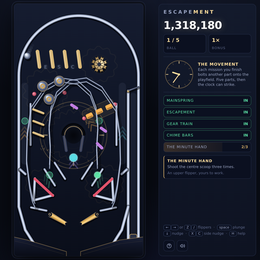
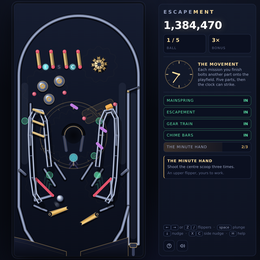
Fix the kickback, unbury the ball, and clear up the playfield
All four of these came from playing it, and all four were real.

The kickback never worked. It teleported the ball to a fixed point that was
inside the outer wall, depenetration shoved it sideways into the inlane rail,
and it rebounded straight into the drain. Underneath that was a worse problem:
the inlane rail roofed the entire outlane, so nothing fired from the bottom of
that lane could get out at all — a probe rising vertically from the outlane
found no clear column anywhere across it. The rail now stops short of the
outlane, the deflector at the foot of each orbit became a one-way wire gate
(solid to a falling ball, open to a rising one, which is what the real part
is), and the coil aims up the orbit lane. It now fires 80/80 and saves 80/80,
sending the ball round the top and back into play through the spinner.

The ball hid behind the plunger because the plunger was drawn after it, and
the apron was drawn straight across the shooter lane. The rod is now drawn
first and sits below the ball, and the apron stops at the lane divider.

The two rails were drawn by offsetting each wire by a constant amount in y, so
they collapsed into a single line on the vertical runs and split apart on the
horizontal ones. That is the "broken" look. The offset is now perpendicular to
the path, with cross-ties, support posts and a shadow, so it reads as a raised
wireform.

For the clutter: the habitrails were two table-spanning ovals crossing
[…]

diff --git a/games/escapement.html b/games/escapement.html
@@ -460,23 +460,23 @@ function build() {
   push(seg(8.5, 186, 15.5, 197, WALL));  push(mseg(8.5, 186, 15.5, 197, WALL));
 
   /* -------------------------------------------------------- slingshots */
-  push(seg(16, 146, 30, 159, Object.assign({ id: 'slingL' }, SLING)));
-  push(seg(30, 159, 15, 163, BACK));
-  push(seg(15, 163, 16, 146, BACK));
-  push(mseg(16, 146, 30, 159, Object.assign({ id: 'slingR' }, SLING)));
-  push(mseg(30, 159, 15, 163, BACK));
-  push(mseg(15, 163, 16, 146, BACK));
+  push(seg(17, 146, 30, 159, Object.assign({ id: 'slingL' }, SLING)));
+  push(seg(30, 159, 16, 163, BACK));
+  push(seg(16, 163, 17, 146, BACK));
+  push(mseg(17, 146, 30, 159, Object.assign({ id: 'slingR' }, SLING)));
+  push(mseg(30, 159, 16, 163, BACK));
+  push(mseg(16, 163, 17, 146, BACK));
 
   // Deflector at the foot of each orbit lane.  A ball still travelling fast
   // skips across the outlane mouth onto the sling; a dribbler drops in.
-  const DEF = { r: 1.0, e: 0.48, mu: 0.05, style: 'rail' };
+  const DEF = { r: 1.0, e: 0.48, mu: 0.05, style: 'gate', oneWay: 1 };
   push(seg(4.6, 139, 8.6, 142.6, Object.assign({ id: 'defL' }, DEF)));
   push(mseg(4.6, 139, 8.6, 142.6, Object.assign({ id: 'defR' }, DEF)));
 
   /* --------------------------------------------------------- inlane rails */
   // the ball rolls down the top of these straight onto the flipper's base
-  push(seg(13, 168.5, 20, 170, RAIL));   push(seg(20, 170, 25, 171, RAIL));
-  push(mseg(13, 168.5, 20, 170, RAIL));  push(mseg(20, 170, 25, 171, RAIL));
+  push(seg(15.5, 167, 20, 169, RAIL));   push(seg(20, 169, 25, 171, RAIL));
+  push(mseg(15.5, 167, 20, 169, RAIL));  push(mseg(20, 169, 25, 171, RAIL));
 
   /* ------------------------------------------------------------ flippers */
   const flippers = [
@@ -546,10 +546,12 @@ function build() {
   chute('rampR', [MX - 27.4, 136.3], [24.5 / DL, -38 / DL], 15, false);
 
   /* -------------------------------------------------------------- rails */
-  const LPTS = [[27.4, 136.3], [28, 122], [27, 106], [28.5, 92], [33, 80], [43, 71], [56, 69],
-                [68, 76], [79, 92], [82, 112], [82.5, 133], [80, 152], [78, 162], [76, 166.5]];
-  const railL = { id: 'railL', pts: LPTS, exitV: 88, climb: 2.05 };
-  const railR = { id: 'railR', on: false, exitV: 88, climb: 2.05,
+  // Each habitrail is a compact hairpin that stays on its own side of the
+  // table: up the inside, over the top, down the outside, into the inlane.
+  const LPTS = [[27.4, 136.3], [26, 124], [25, 112], [24, 101], [21, 94], [16, 93],
+                [12.8, 99], [12.4, 112], [13, 128], [14, 145], [16, 158], [20, 164]];
+  const railL = { id: 'railL', pts: LPTS, exitV: 84, climb: 2.6 };
+  const railR = { id: 'railR', on: false, exitV: 84, climb: 2.6,
                   pts: LPTS.map((p) => [MX - p[0], p[1]]) };
 
   /* ------------------------------------------------------------- chimes */
@@ -563,7 +565,7 @@ function build() {
   const wheel = { x: 66, y: 57, r: 6.8, teeth: 8, toothLen: 3.6, toothR: 1.1, ang: 0, av: 2.6, on: false, id: 'wheel' };
 
   /* ------------------------------------------------------------ triggers */
-  tr.push({ kind: 'kickback', x: 8.5, y: 182, r: 4.6, id: 'kickback', on: false });
+  tr.push({ kind: 'kickback', x: 11, y: 180, r: 5.2, aim: [7, 108], id: 'kickback', on: false });
   tr.push({ kind: 'orbit', id: 'orbitL', x: 7.6, y: 80, r: 4.6 });
   tr.push({ kind: 'orbit', id: 'orbitR', x: MX - 7.6, y: 80, r: 4.6 });
   tr.push({ kind: 'inlane', id: 'inlaneL', x: 18, y: 166, r: 4 });
@@ -1277,9 +1279,11 @@ function enterTrigger(g, b, t) {
     case 'kickback':
       if (g.kickbackArmed) {
         g.kickbackArmed = false;
-        b.vx = 26; b.vy = -430;
-        b.y = 184;
-        ev(w, 'kickback', {});
+        // aim the coil at a point above the mouth so the ball threads it
+        const tx = (t.aim ? t.aim[0] : t.x) - b.x, ty = (t.aim ? t.aim[1] : t.y - 40) - b.y;
+        const L = Math.hypot(tx, ty) || 1;
+        b.vx = tx / L * 720; b.vy = ty / L * 720;   // hard enough to make the orbit
+        ev(w, 'kickback', { x: b.x, y: b.y });
         say(g, 'KICKBACK', 'good');
       }
       break;
@@ -1477,13 +1481,13 @@ function strokePath(g, pts, w, col) {
 }
 function drawPath(g, p) {
   const w = Math.max(0.8, p.r * 2);
-  strokePath(g, p.pts, w + 1.6, 'rgba(0,0,0,.55)');
-  g.save(); g.translate(0, -0.35);
-  strokePath(g, p.pts, w, p.style === 'rail' ? '#7c88a6' : '#8e9bb8');
-  strokePath(g, p.pts, w * 0.42, p.style === 'rail' ? '#c2cde4' : '#d3dcf0');
+  strokePath(g, p.pts, w + 1.6, 'rgba(0,0,0,.6)');
+  g.save(); g.translate(0, -0.3);
+  strokePath(g, p.pts, w, p.style === 'rail' ? '#525c78' : '#5f6a88');
+  strokePath(g, p.pts, w * 0.40, p.style === 'rail' ? '#8f9ab8' : '#9aa6c4');
   g.restore();
-  g.save(); g.globalAlpha = 0.5;
-  strokePath(g, p.pts, w * 0.2, '#ffffff');
+  g.save(); g.globalAlpha = 0.30;
+  strokePath(g, p.pts, w * 0.18, '#dfe6f7');
   g.restore();
 }
 
@@ -1499,12 +1503,12 @@ function paintStatic(g, world, game) {
 
   /* engraved clockwork: big faint gears under everything */
   g.save();
-  g.globalAlpha = 0.5;
+  g.globalAlpha = 0.30;
   const plates = [[24, 78, 15, 14], [66, 57, 12, 11], [46, 112, 17, 18], [70, 150, 13, 12], [20, 150, 10, 9]];
   for (const [x, y, R, n] of plates) {
-    g.strokeStyle = 'rgba(201,164,99,.13)'; g.lineWidth = 0.7;
+    g.strokeStyle = 'rgba(201,164,99,.10)'; g.lineWidth = 0.6;
     gear(g, x, y, R, n, x * 0.3, R * 0.36); g.stroke();
-    g.strokeStyle = 'rgba(201,164,99,.07)'; g.lineWidth = 0.4;
+    g.strokeStyle = 'rgba(201,164,99,.05)'; g.lineWidth = 0.35;
     g.beginPath(); g.arc(x, y, R * 0.62, 0, Math.PI * 2); g.stroke();
   }
   g.restore();
@@ -1537,12 +1541,9 @@ function paintStatic(g, world, game) {
   g.restore();
 
   /* shot inserts: the arrows a real playfield paints in front of a shot */
-  insert(g, 27.4, 148, -122, COL.green);      // left ramp
-  insert(g, 64.6, 148, -58, COL.green);       // right ramp
-  insert(g, 8, 112, -90, COL.amber);          // left orbit / spinner
-  insert(g, 84, 112, -90, COL.cyan);          // right orbit
+  insert(g, 27.4, 150, -122, COL.green);      // left ramp
+  insert(g, 64.6, 150, -58, COL.green);       // right ramp
   insert(g, 46, 134, -90, COL.violet);        // the scoop
-  insert(g, 60, 104, -125, COL.amber);        // the bank
 
   /* brass backplate behind the drop targets */
   g.save();
@@ -1562,7 +1563,10 @@ function paintStatic(g, world, game) {
 }
 
 function ghosts(g, world, game) {
-  const p = game ? game.parts : {};
+  // only the part you are working on next, or the table turns into a blueprint
+  const next = game ? PART_ORDER.find((id) => !game.parts[id]) : null;
+  const p = {};
+  for (const id of PART_ORDER) p[id] = !game || game.parts[id] || id !== next;
   g.save();
   g.setLineDash([1.6, 1.6]);
   g.strokeStyle = 'rgba(201,164,99,.22)';
@@ -1621,7 +1625,7 @@ function insert(g, x, y, deg, col) {
     g.beginPath();
     const o = i * 3.1;
     g.moveTo(o - 3.6, -3.1); g.lineTo(o + 0.2, 0); g.lineTo(o - 3.6, 3.1);
-    g.lineWidth = 1.0; g.strokeStyle = col; g.globalAlpha = 0.30 - i * 0.07;
+    g.lineWidth = 1.0; g.strokeStyle = col; g.globalAlpha = 0.22 - i * 0.05;
     g.stroke();
   }
   g.restore();
@@ -1647,7 +1651,7 @@ function drawApron(g) {
   const wing = (l) => {
     g.beginPath();
     if (l) { g.moveTo(-1, 209); g.lineTo(-1, 191); g.lineTo(10, 193.5); g.lineTo(40.5, 202.5); g.lineTo(40.5, 209); }
-    else { g.moveTo(101, 209); g.lineTo(101, 191); g.lineTo(82, 193.5); g.lineTo(51.5, 202.5); g.lineTo(51.5, 209); }
+    else { g.moveTo(88.5, 209); g.lineTo(88.5, 191.5); g.lineTo(82, 193.5); g.lineTo(51.5, 202.5); g.lineTo(51.5, 209); }
     g.closePath();
     const grd = g.createLinearGradient(0, 191, 0, 207);
     grd.addColorStop(0, '#1c2237'); grd.addColorStop(0.3, '#12172a'); grd.addColorStop(1, '#080b14');
@@ -1656,7 +1660,7 @@ function drawApron(g) {
     g.save(); g.globalAlpha = 0.5; g.strokeStyle = 'rgba(201,164,99,.35)'; g.lineWidth = 0.22;
     g.beginPath();
     if (l) { g.moveTo(0.6, 194.4); g.lineTo(10, 196.4); g.lineTo(38.6, 204.6); }
-    else { g.moveTo(99.4, 194.4); g.lineTo(82, 196.4); g.lineTo(53.4, 204.6); }
+    else { g.moveTo(87.9, 194.7); g.lineTo(82, 196.4); g.lineTo(53.4, 204.6); }
     g.stroke(); g.restore();
   };
   wing(true); wing(false);
@@ -1718,10 +1722,18 @@ function paintOne(g, c, world, game) {
   }
   if (s === 'post') {
     g.lineCap = 'round';
-    g.strokeStyle = '#d9b877'; g.lineWidth = w;
+    g.strokeStyle = 'rgba(0,0,0,.45)'; g.lineWidth = w + 1;
+    g.beginPath(); g.moveTo(c.ax, c.ay + 0.6); g.lineTo(c.bx, c.by + 0.6); g.stroke();
+    g.strokeStyle = '#8a7448'; g.lineWidth = w;
     g.beginPath(); g.moveTo(c.ax, c.ay); g.lineTo(c.bx, c.by); g.stroke();
-    g.strokeStyle = 'rgba(255,255,255,.22)'; g.lineWidth = w * 0.3;
-    g.beginPath(); g.moveTo(c.ax - w * .22, c.ay); g.lineTo(c.bx - w * .22, c.by); g.stroke();
+    g.strokeStyle = '#d9b877'; g.lineWidth = w * 0.5;
+    g.beginPath(); g.moveTo(c.ax - w * .18, c.ay); g.lineTo(c.bx - w * .18, c.by); g.stroke();
+    for (const [px, py] of [[c.ax, c.ay], [c.bx, c.by]]) {
+      g.fillStyle = '#e2536b';
+      g.beginPath(); g.arc(px, py, w * 0.52, 0, Math.PI * 2); g.fill();
+      g.fillStyle = 'rgba(255,255,255,.25)';
+      g.beginPath(); g.arc(px - w * .12, py - w * .12, w * 0.22, 0, Math.PI * 2); g.fill();
+    }
     return;
   }
   if (s === 'drop') {
@@ -1772,16 +1784,23 @@ function paintOne(g, c, world, game) {
 }
 
 
+const PART_ORDER = ['mainspring', 'escapement', 'geartrain', 'chimes', 'hands'];
+
 /* -------------------------------------------------------------- the lamps */
 // Every mission has an insert on the playfield.  Lit means "this is the shot".
 function lamps(game) {
-  const p = game.parts, pr = game.progress;
+  const p = game.parts;
+  // only the mission you are on is lit, so the eye has one place to go
+  const next = PART_ORDER.find((id) => !p[id]);
+  const lit = (id) => id === next;
   return [
-    { x: 8.2, y: 101, r: 2.5, col: COL.amber,  on: !p.mainspring, done: p.mainspring, lbl: 'WIND' },
-    { x: 66, y: 101, r: 2.5, col: COL.cyan,    on: !p.escapement, done: p.escapement, lbl: 'DROPS' },
-    { x: 27.4, y: 143, r: 2.5, col: COL.green, on: !p.geartrain,  done: p.geartrain,  lbl: 'RAMP' },
-    { x: 64.6, y: 143, r: 2.5, col: COL.green, on: p.geartrain,   done: false,        lbl: 'RAMP' },
-    { x: 46, y: 129.5, r: 3.1, col: game.partOrder.length >= 5 ? COL.violet : COL.cyan, on: !p.hands || game.partOrder.length >= 5, done: p.hands && game.partOrder.length < 5, lbl: 'SCOOP' }
+    { x: 8.2, y: 101, r: 2.5, col: COL.amber,  on: lit('mainspring'), done: p.mainspring },
+    { x: 66, y: 101, r: 2.5, col: COL.cyan,    on: lit('escapement'), done: p.escapement },
+    { x: 27.4, y: 143, r: 2.5, col: COL.green, on: lit('geartrain'),  done: p.geartrain },
+    { x: 64.6, y: 143, r: 2.5, col: COL.green, on: p.geartrain,       done: false },
+    { x: 46, y: 129.5, r: 3.1, col: game.partOrder.length >= 5 ? COL.violet : COL.cyan,
+      on: lit('hands') || game.partOrder.length >= 5, done: p.hands && game.partOrder.length < 5 },
+    { x: 62, y: 128, r: 2.4, col: COL.violet, on: lit('chimes'), done: p.chimes }
   ];
 }
 function drawLamp(g, l, t) {
@@ -1885,24 +1904,57 @@ function drawWheel(g, wh, t) {
   g.restore();
 }
 
-// habitrails: drawn as raised wireforms with a shadow on the playfield
+// Habitrails: two wires held apart by cross-ties, standing on posts, with a
+// shadow on the playfield below.  The offset has to be perpendicular to the
+// path or the two wires collapse into one on the vertical runs.
+function railGeom(r) {
+  if (r._geom) return r._geom;
+  const pts = r.pts, L = [], R = [];
+  for (let i = 0; i < pts.length; i++) {
+    const a = pts[Math.max(0, i - 1)], b = pts[Math.min(pts.length - 1, i + 1)];
+    let dx = b[0] - a[0], dy = b[1] - a[1];
+    const d = Math.hypot(dx, dy) || 1;
+    const nx = -dy / d * 1.45, ny = dx / d * 1.45;
+    L.push([pts[i][0] + nx, pts[i][1] + ny]);
+    R.push([pts[i][0] - nx, pts[i][1] - ny]);
+  }
+  r._geom = { L, R };
+  return r._geom;
+}
+function polyline(g, pts, dx, dy) {
+  g.beginPath();
+  g.moveTo(pts[0][0] + dx, pts[0][1] + dy);
+  for (let i = 1; i < pts.length; i++) g.lineTo(pts[i][0] + dx, pts[i][1] + dy);
+}
 function drawRail(g, r, on) {
+  const { L, R } = railGeom(r);
   const pts = r.pts;
   g.save();
   g.lineJoin = 'round'; g.lineCap = 'round';
-  g.globalAlpha = on ? 1 : 0.16;
-  const line = (dx, dy, w, col) => {
-    g.strokeStyle = col; g.lineWidth = w;
-    g.beginPath(); g.moveTo(pts[0][0] + dx, pts[0][1] + dy);
-    for (let i = 1; i < pts.length; i++) g.lineTo(pts[i][0] + dx, pts[i][1] + dy);
+  g.globalAlpha = on ? 1 : 0.18;
+
+  // shadow of the whole form, cast down-right onto the playfield
+  g.strokeStyle = 'rgba(0,0,0,.34)'; g.lineWidth = 4.4;
+  polyline(g, pts, 2.0, 3.2); g.stroke();
+
+  // support posts every few points
+  g.strokeStyle = 'rgba(120,132,162,.55)'; g.lineWidth = 0.9;
+  for (let i = 1; i < pts.length - 1; i += 2) {
+    g.beginPath();
+    g.moveTo(pts[i][0], pts[i][1]);
+    g.lineTo(pts[i][0] + 1.5, pts[i][1] + 2.6);
     g.stroke();
-  };
-  line(1.5, 2.4, 3.0, 'rgba(0,0,0,.30)');            // shadow on the playfield
-  line(0, -1.5, 0.85, 'rgba(150,164,196,.75)');      // the two wires of the form
-  line(0, 1.5, 0.85, 'rgba(150,164,196,.75)');
-  g.globalAlpha *= 0.5;
-  line(0, -1.5, 0.3, '#e6ecfa');
-  line(0, 1.5, 0.3, '#e6ecfa');
+  }
+  // cross-ties
+  g.strokeStyle = 'rgba(150,163,196,.7)'; g.lineWidth = 0.55;
+  for (let i = 0; i < pts.length; i++) {
+    g.beginPath(); g.moveTo(L[i][0], L[i][1]); g.lineTo(R[i][0], R[i][1]); g.stroke();
+  }
+  // the two wires
+  for (const side of [L, R]) {
+    g.strokeStyle = '#5d6884'; g.lineWidth = 1.25; polyline(g, side, 0, 0); g.stroke();
+    g.strokeStyle = '#cbd5ea'; g.lineWidth = 0.6; polyline(g, side, 0, -0.2); g.stroke();
+  }
   g.restore();
 }
 
@@ -2104,7 +2156,10 @@ function spark(x, y, n, col, spd) {
     parts.push({ x, y, vx: Math.cos(a) * v, vy: Math.sin(a) * v - 12, life: 0.32 + Math.random() * 0.4, t: 0, col });
   }
 }
-function pop(x, y, text, col) { pops.push({ x, y, text, col, t: 0, life: 1.05 }); }
+function pop(x, y, text, col) {
+  // keep score pops inside the cabinet
+  pops.push({ x: Math.max(15, Math.min(85, x)), y, text, col, t: 0, life: 1.05 });
+}
 
 /* ------------------------------------------------------------------ events */
 function consume() {
@@ -2195,6 +2250,23 @@ function draw(dt) {
   R.drawWheel(g, w.wheel, w.t);
   for (const f of w.flippers) if (f.on) R.drawFlipper(g, f, w.t);
 
+  /* plunger */
+  const plunging = game.state === 'plunge';
+  const pw = 5.6, px = 92.5;
+  const pull = plunging ? game.plunger : 0;
+  // the shooter rod sits below the ball and pushes it, so it never hides it
+  g.fillStyle = '#39415c';
+  R.rr(g, px - 1.1, 197 + pull * 5, 2.2, 9, 1); g.fill();
+  g.fillStyle = '#2a3145';
+  R.rr(g, px - pw / 2, 196 + pull * 5, pw, 3.4, 1.2); g.fill();
+  g.strokeStyle = '#c9a463'; g.lineWidth = 0.35; g.stroke();
+  if (plunging) {
+    g.fillStyle = 'rgba(255,180,84,.9)';
+    R.rr(g, px - 1.5, 178, 3, 14 * pull, 0.8); g.fill();
+    g.strokeStyle = 'rgba(255,180,84,.35)'; g.lineWidth = 0.3;
+    R.rr(g, px - 1.5, 178, 3, 14, 0.8); g.stroke();
+  }
+
   /* the ball, with a short trail */
   for (const b of w.balls) {
     if (b.trail) {
@@ -2209,18 +2281,6 @@ function draw(dt) {
       g.restore();
     }
     R.drawBall(g, b, !!b.rail);
-  }
-
-  /* plunger */
-  const plunging = game.state === 'plunge';
-  const pw = 5.6, px = 92.5;
-  const pull = plunging ? game.plunger : 0;
-  g.fillStyle = '#2a3145';
-  R.rr(g, px - pw / 2, 191 - 2 + pull * 5, pw, 8, 1.2); g.fill();
-  g.strokeStyle = '#c9a463'; g.lineWidth = 0.4; g.stroke();
-  if (plunging) {
-    g.fillStyle = 'rgba(255,180,84,.85)';
-    R.rr(g, px - 1.6, 176, 3.2, 12 * pull, 0.8); g.fill();
   }
 
   /* sparks and score pops */
